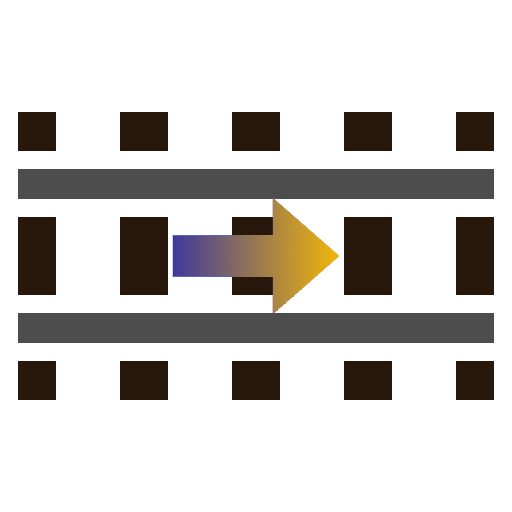
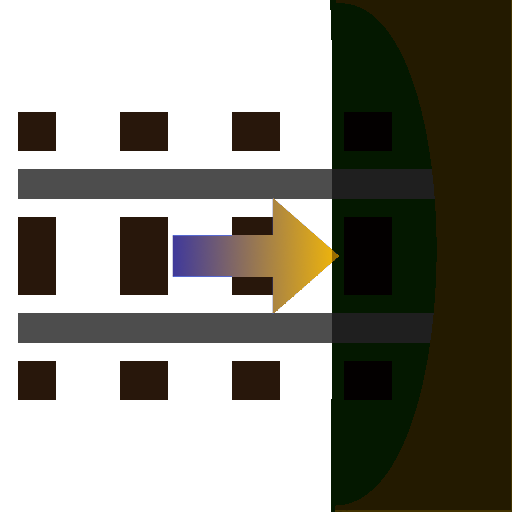
dev subway

diff --git a/public/script/game/resources.js b/public/script/game/resources.js
@@ -46,7 +46,7 @@ var Resources = {
         if (typeof GameApp.data.resources[r].sprite.custom_ground !== "undefined" && 
             GameApp.data.resources[r].sprite.custom_ground < 0) {
           //GameApp.data.resources[r].sprite.tint = 0xff0000;
-          GameApp.data.resources[r].sprite.alpha = 0.3;
+          GameApp.data.resources[r].sprite.alpha = 0.2;
         } else {
           //GameApp.data.resources[r].sprite.tint = 0xffffff;
           GameApp.data.resources[r].sprite.alpha = 1;

diff --git a/public/script/game/roads.js b/public/script/game/roads.js
@@ -682,6 +682,7 @@ Road.prototype.spawn = function () {
   //this.sprite.left = tile.left;
   this.sprite.centerX = tile.centerX;
   this.sprite.centerY = tile.centerY;
+  this.sprite.z = this.ground;
   
   // Physics.
   game.physics.enable(this.sprite, Phaser.Physics.ARCADE);
@@ -693,7 +694,7 @@ Road.prototype.spawn = function () {
   
   // Subway!
   if (this.ground < 0) {
-    this.sprite.alpha = 0.3;
+    this.sprite.alpha = 0.2;
   }
   
 }
